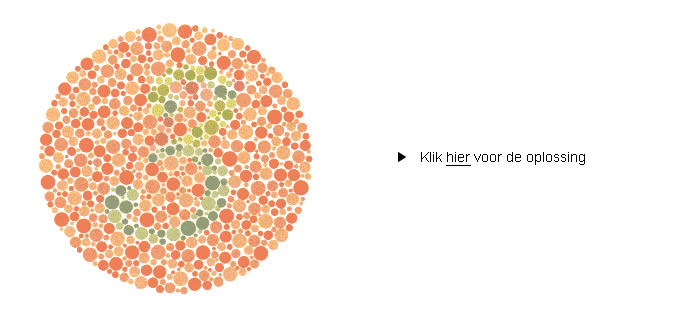
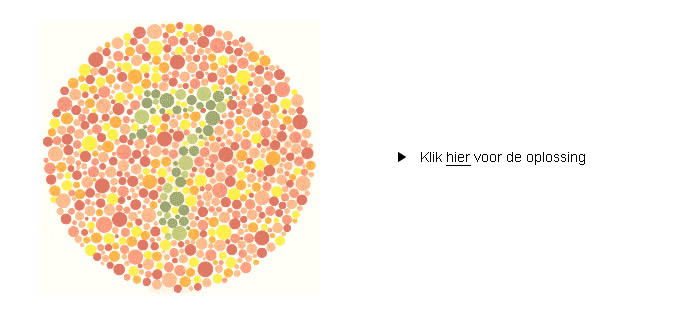
Opdracht 3 afgemaakt.

Changed region(s): [[0.0309, 0.0571, 0.4632, 0.9429]]

diff --git a/src/opdracht3/Scherm.java b/src/opdracht3/Scherm.java
@@ -11,24 +11,22 @@ import java.io.File;
 import java.io.IOException;
 
 public class Scherm {
-    private JFrame frame;
-    private JPanel panelTop;
-    private JPanel panelBottom;
-    private JLabel imageLabel;
     public JButton nextButton;
     public JButton prevButton;
     private Image img;
+    private JLabel imageLabel;
+    private int counter = 1;
 
     public static void main(String[] args) {
         new Scherm().start();
     }
 
     public void start() {
-        frame = new JFrame("Kleurenblindheidstest");
+        JFrame frame = new JFrame("Kleurenblindheidstest");
         frame.getContentPane().setLayout(new BorderLayout());
         frame.setSize(700, 500);
 
-        panelTop = new JPanel();
+        JPanel panelTop = new JPanel();
         panelTop.setBackground(Color.DARK_GRAY);
         panelTop.setPreferredSize(new Dimension(680,380));
 
@@ -36,7 +34,7 @@ public class Scherm {
         imageLabel.setSize(680, 380);
 
         try {
-            Image img = ImageIO.read(new File("./data/kleurenblindheidstest/3.jpg"));
+            img = ImageIO.read(new File("./data/kleurenblindheidstest/"+ counter + ".jpg"));
             imageLabel.setIcon(new ImageIcon(img.getScaledInstance(680, 315, 0)));
         }catch (IOException e) {
             e.printStackTrace();
@@ -44,7 +42,7 @@ public class Scherm {
 
         panelTop.add(imageLabel);
 
-        panelBottom = new JPanel();
+        JPanel panelBottom = new JPanel();
         panelBottom.setBackground(Color.DARK_GRAY);
 
         prevButton = new JButton("Vorige");
@@ -53,7 +51,13 @@ public class Scherm {
         imageLabel.addMouseListener(new MouseListener() {
             @Override
             public void mouseClicked(MouseEvent e) {
-                System.out.println("geklikt");
+                try {
+                    img = ImageIO.read(new File("./data/kleurenblindheidstest/"+ counter + "_oplossing.jpg"));
+                    imageLabel.setIcon(new ImageIcon(img.getScaledInstance(680, 315, 0)));
+                    imageLabel.updateUI();
+                }catch (IOException f) {
+                    f.printStackTrace();
+                }
             }
 
             @Override
@@ -80,16 +84,36 @@ public class Scherm {
         prevButton.addActionListener(new ActionListener() {
             @Override
             public void actionPerformed(ActionEvent e) {
-
+                try {
+                    counter--;
+                    System.out.println(counter);
+                    img = ImageIO.read(new File("./data/kleurenblindheidstest/"+ counter + ".jpg"));
+                    imageLabel.setIcon(new ImageIcon(img.getScaledInstance(680, 315, 0)));
+                    imageLabel.updateUI();
+                    enableButtons();
+                }catch (IOException f) {
+                    f.printStackTrace();
+                }
             }
         });
 
         nextButton.addActionListener(new ActionListener() {
             @Override
             public void actionPerformed(ActionEvent e) {
-
+                try {
+                    counter++;
+                    System.out.println(counter);
+                    img = ImageIO.read(new File("./data/kleurenblindheidstest/"+ counter + ".jpg"));
+                    imageLabel.setIcon(new ImageIcon(img.getScaledInstance(680, 315, 0)));
+                    imageLabel.updateUI();
+                    enableButtons();
+                }catch (IOException f) {
+                    f.printStackTrace();
+                }
             }
         });
+
+        enableButtons();
 
         panelBottom.add(prevButton, BorderLayout.WEST);
         panelBottom.add(nextButton, BorderLayout.EAST);
@@ -102,4 +126,17 @@ public class Scherm {
         frame.setDefaultCloseOperation(JFrame.EXIT_ON_CLOSE);
     }
 
+
+    private void enableButtons(){
+        if(counter == 1) {
+            prevButton.setEnabled(false);
+            nextButton.setEnabled(true);
+        }else if(counter == 11) {
+            nextButton.setEnabled(false);
+            prevButton.setEnabled(true);
+        } else {
+            prevButton.setEnabled(true);
+            nextButton.setEnabled(true);
+        }
+    }
 }
